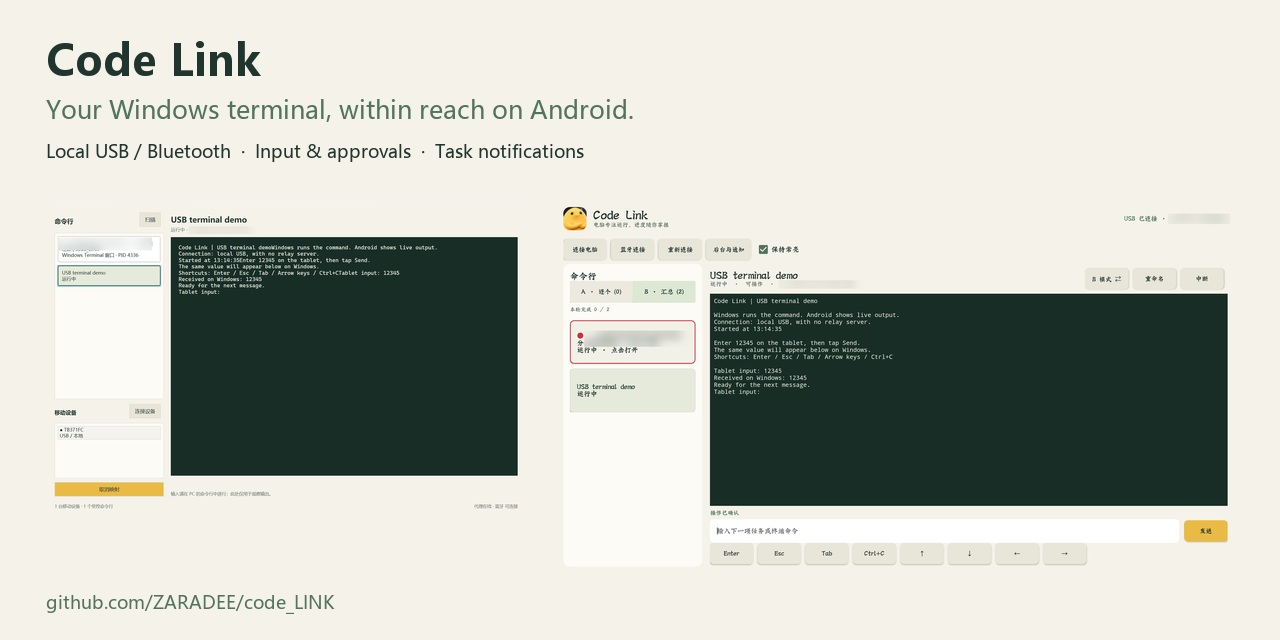
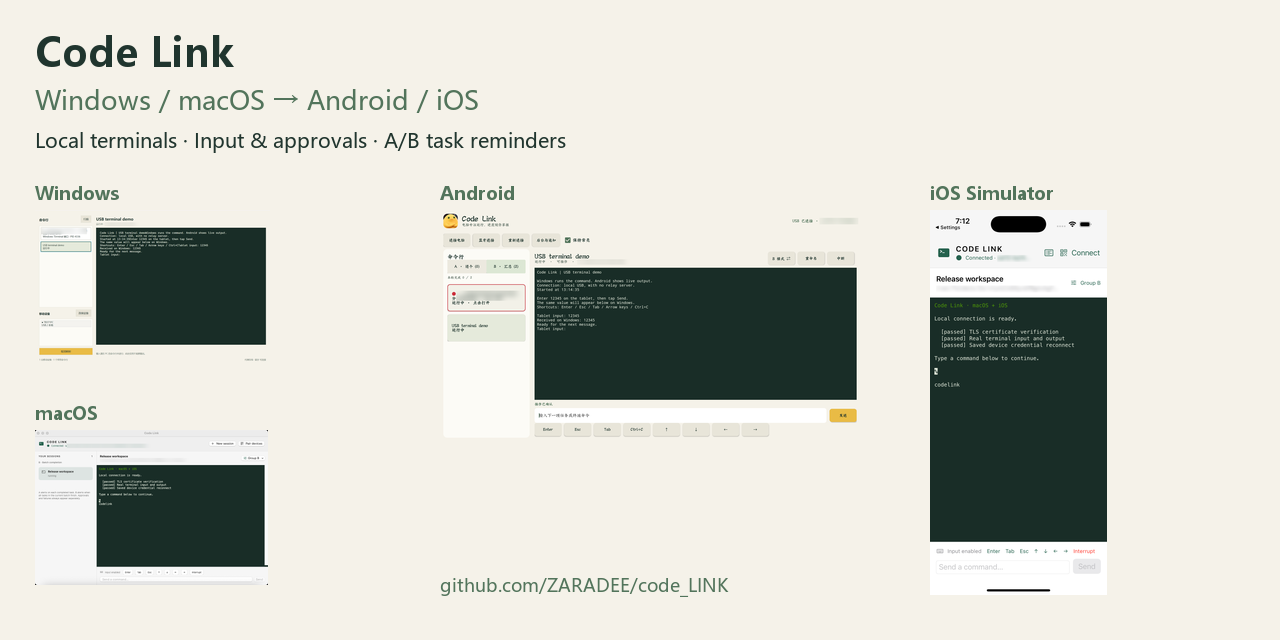
Verify Apple bundle versions and document real Mac and iOS captures

diff --git a/site/en.html b/site/en.html
@@ -64,7 +64,7 @@
       <p class="intro">Follow your Windows or Mac terminal from Android, iPhone or iPad. Read output, send input, respond to approvals, and get a notification when the work is ready.</p>
       <div class="actions"><a class="button" href="https://github.com/ZARADEE/code_LINK/releases/latest">Download v1.3.0 <span aria-hidden="true">↗</span></a><a class="text-link" href="https://github.com/ZARADEE/code_LINK/blob/main/README.en.md">Read the guide →</a></div>
       <p class="meta">USB / Bluetooth / LAN · No relay server · Native desktop and mobile apps · MIT code license</p>
-      <figure><img src="assets/overview.png" width="1800" height="820" alt="Actual Windows and Android interfaces showing the same PowerShell output"><figcaption>Real application screenshots. Local paths and computer names are blurred. The app currently uses a Chinese interface.</figcaption></figure>
+      <figure><img src="assets/overview.png" width="1800" height="820" alt="Actual Windows and Android interfaces showing the same PowerShell output"><figcaption>Real application screenshots. Local paths and computer names are blurred. Windows and Android use Chinese; Apple clients use English.</figcaption></figure>
     </section>
     <section class="wrap features" aria-label="Features">
       <article><span class="number">01 / OUTPUT AND INPUT</span><h2>Your terminal can stay minimized</h2><p>Choose an existing Windows terminal on the tablet. Send text, Enter, arrow keys or Ctrl+C back to that terminal.</p></article>
@@ -84,6 +84,8 @@
       </ol>
     </section>
     <section class="wrap details" aria-labelledby="downloads">
+      <h2 id="apple">Your Mac terminal on iPhone and iPad</h2>
+      <figure><a href="assets/apple-overview.png"><img src="assets/apple-overview.png" width="1800" height="1030" alt="Native macOS application and iPhone and iPad simulators connected to a real terminal over local TLS" loading="lazy"></a><figcaption>Actual running applications. iPhone and iPad are simulators; device installation needs personal signing. iOS pauses its connection in the background.</figcaption></figure>
       <h2 id="downloads">Download the current version</h2>
       <p>Apple clients use LAN connections. Read the <a href="https://github.com/ZARADEE/code_LINK/blob/main/docs/APPLE.md">macOS / iOS guide</a>; verify Apple packages with <a href="https://github.com/ZARADEE/code_LINK/releases/download/v1.3.0/APPLE-SHA256SUMS.txt">APPLE-SHA256SUMS.txt</a>.</p>
       <div class="table-scroll"><table><caption>Code Link v1.3.0 official downloads</caption><thead><tr><th scope="col">Platform</th><th scope="col">Download</th><th scope="col">Requirements</th></tr></thead><tbody>

diff --git a/site/index.html b/site/index.html
@@ -85,6 +85,8 @@
       </ol>
     </section>
     <section class="wrap details" aria-labelledby="downloads">
+      <h2 id="apple">Mac 终端，连接 iPhone 与 iPad</h2>
+      <figure><a href="assets/apple-overview.png"><img src="assets/apple-overview.png" width="1800" height="1030" alt="原生 macOS 应用与 iPhone、iPad 模拟器通过本地 TLS 同步真实终端输出" loading="lazy"></a><figcaption>三端实际运行截图。iPhone / iPad 为模拟器；真机需自行签名，iOS 后台会暂停连接。</figcaption></figure>
       <h2 id="downloads">下载当前版本</h2>
       <p>Apple 端通过同一局域网连接，参见 <a href="https://github.com/ZARADEE/code_LINK/blob/main/docs/APPLE.md">macOS / iOS 安装指南</a>。Apple 包另附 <a href="https://github.com/ZARADEE/code_LINK/releases/download/v1.3.0/APPLE-SHA256SUMS.txt">校验文件</a>。</p>
       <div class="table-scroll"><table><caption>Code Link v1.3.0 官方下载</caption><thead><tr><th scope="col">平台</th><th scope="col">下载</th><th scope="col">安装要求</th></tr></thead><tbody>

diff --git a/scripts/verify-apple-packages.py b/scripts/verify-apple-packages.py
@@ -1,0 +1,35 @@
+"""Verify release archive metadata, resources and checksums before publishing."""
+from pathlib import Path
+import hashlib,json,plistlib,zipfile,sys
+
+folder=Path(sys.argv[1])
+for line in (folder/'APPLE-SHA256SUMS.txt').read_text().splitlines():
+    digest,name=line.split('  ',1)
+    path=folder/name
+    with path.open('rb') as stream: assert hashlib.file_digest(stream,'sha256').hexdigest()==digest,name
+    with zipfile.ZipFile(path) as archive:
+        names=archive.namelist()
+        assert not any(n.endswith(('host.json','host.pfx','sessions.json','operations.jsonl','.keystore','.p12')) for n in names),name
+        if 'macOS-' in name:
+            info=plistlib.loads(archive.read('CodeLink.app/Contents/Info.plist'))
+            assert info['CFBundleShortVersionString']=='1.3.0',info
+            for required in ['Contents/MacOS/CodeLink','Contents/Resources/backend/CodeLink.Host','Contents/Resources/backend/codelink-pty','Contents/Resources/Terminal/terminal.html','Contents/Resources/Terminal/xterm.js']:
+                assert 'CodeLink.app/'+required in names,(name,required)
+            executable=archive.getinfo('CodeLink.app/Contents/Resources/backend/CodeLink.Host')
+            assert (executable.external_attr >> 16) & 0o111,'Mac host executable mode missing'
+        elif 'Simulator' in name:
+            info=plistlib.loads(archive.read('CodeLink.app/Info.plist'))
+            assert info['CFBundleShortVersionString']=='1.3.0'
+            assert info['DTPlatformName']=='iphonesimulator',info
+            assert 'CodeLink.app/Terminal/terminal.html' in names
+            assert 'CodeLink.app/_CodeSignature/CodeResources' in names
+        elif 'Source' in name:
+            assert 'CodeLink-Apple/apple/CodeLink.xcodeproj/project.pbxproj' in names
+            assert 'CodeLink-Apple/docs/APPLE.md' in names
+        elif 'unsigned-archive' in name:
+            assert any(n.endswith('/Products/Applications/CodeLink.app/CodeLink') for n in names)
+            app_info=next(n for n in names if n.endswith('/Products/Applications/CodeLink.app/Info.plist'))
+            info=plistlib.loads(archive.read(app_info))
+            assert info['CFBundleShortVersionString']=='1.3.0',info
+            assert info['DTPlatformName']=='iphoneos',info
+    print('Verified',name,path.stat().st_size)

diff --git a/docs/APPLE.md b/docs/APPLE.md
@@ -18,6 +18,8 @@ The Apple clients use the same TLS protocol as Windows and Android. macOS hosts 
 
 Requirements: macOS 14 or newer; iOS / iPadOS 17 or newer. macOS packages are provided for Apple silicon and Intel.
 
+![Mac app connected to iPhone and iPad simulators](assets/apple-overview.png)
+
 ## Downloads and signing
 
 The macOS application is ad-hoc signed, without an Apple Developer ID or notarization. Download it from this repository's release, unzip it, and move CodeLink.app to Applications. If macOS blocks it, use System Settings → Privacy & Security → Open Anyway after checking the release checksum. Do not disable Gatekeeper globally.
@@ -25,6 +27,13 @@ The macOS application is ad-hoc signed, without an Apple Developer ID or notariz
 There is no signed iPhone IPA or TestFlight release. `CodeLink-iOS-Simulator` runs in Xcode's iOS Simulator on a Mac. `CodeLink-iOS-unsigned-archive` is an unsigned device archive for developers; it cannot be installed directly on an iPhone. `CodeLink-Apple-Source` contains an Xcode project for personal signing. Open `apple/CodeLink.xcodeproj`, select CodeLinkiOS, set **Build Settings → Code Signing Allowed** to **Yes**, enable automatic signing, select your own development team and bundle identifier, and run on a connected device. A free Apple Account can be used for personal device testing under Apple's provisioning limits. App Store / TestFlight distribution needs paid Apple Developer Program membership.
 
 ## First connection
+
+To run the simulator download, unzip it, open Xcode's Simulator and start an iPhone or iPad. Install and launch the app with:
+
+```sh
+xcrun simctl install booted /path/to/CodeLink.app
+xcrun simctl launch booted com.codelink.ios
+```
 
 1. Open the Mac app and create a terminal or Codex session. Codex requires a separately installed, authenticated Codex CLI.
 2. Open Pair devices, enable local network connections and check the displayed Mac IP address.

diff --git a/docs/assets/README.md b/docs/assets/README.md
@@ -6,9 +6,15 @@
 | `android.png` | 2026-11-14 联想小新 Pad Pro 12.7 实拍屏幕，USB 已连接；从平板发送 12345，终端回显已收到 |
 | `background-settings.png` | 同日平板的后台与通知设置截图；系统勿扰当时处于开启状态 |
 | `overview.png` | 将上述真实 Windows 与 Android 截图排版，添加说明文字 |
-| `social-preview.png` | 使用上述真实界面制作的网页分享图，尺寸 1280 × 640 |
+| `macos.png` | 2026-11-14 GitHub macOS runner 上运行的原生 Mac 应用，连接实际 PTY 主机 |
+| `ios.png` | 同次构建中的 iPhone 16 Pro 模拟器，已配对并接收真实终端输出 |
+| `ipados.png` | 同次构建中的 iPad 模拟器，已配对并接收同一终端输出 |
+| `apple-overview.png` | 将上述三张 Apple 实际截图排版，标明模拟器来源 |
+| `social-preview.png` | 使用四个平台真实界面制作的网页分享图，尺寸 1280 × 640 |
 | `notifications.png` | 2026-11-13 真机后台验收中的 A/B 通知横幅，依据 [验收记录](../../research/pad-background-acceptance.json) |
 | `reminder-modes.png` | A/B 完成提醒规则示意图 |
 | `logo.png` | 由维护者提供的原始素材生成，许可范围见 [素材说明](../../assets/README.md) |
 
 截图仅裁掉系统边栏并模糊本机路径、设备名和私人窗口标题。终端正文与连接状态保留实际画面。原始截图留在本机，公开仓库只保存处理后的版本。
+
+Apple 截图来自 [通过全部运行检查的构建](https://github.com/ZARADEE/code_LINK/actions/runs/43569332131)。终端中的检查说明由演示命令输出，对应此前已完成的 TLS、PTY 输入输出和凭据重连检查。iOS / iPadOS 为模拟器截图，尚无 Apple 真机验收。

diff --git a/README.en.md b/README.en.md
@@ -18,6 +18,10 @@ The desktop app is a lightweight **WPF tray application**. The Android app uses 
 
 Native SwiftUI clients add managed zsh terminals and Codex sessions on macOS, with an iPhone/iPad companion using the same pinned TLS protocol. Download Apple silicon or Intel builds for macOS 14+, including the .NET runtime. The Mac apps are ad-hoc signed and not notarized.
 
+![macOS app and iPhone/iPad simulators connected to a real local terminal](docs/assets/apple-overview.png)
+
+Full-size captures: [macOS](docs/assets/macos.png), [iPhone Simulator](docs/assets/ios.png), [iPad Simulator](docs/assets/ipados.png). These show running applications connected to the native Mac host.
+
 iOS 17+ is provided as a simulator app, an unsigned device archive and an Xcode source project for personal signing. There is no directly installable signed IPA or TestFlight release. iOS connections pause in the background and resume on return. Read the [Apple guide](docs/APPLE.md) for installation and the platform capability matrix. The USB, Bluetooth, background service and external window scanning instructions below apply to Windows + Android.
 
 ## Get started

diff --git a/README.md b/README.md
@@ -43,6 +43,10 @@
 
 ## macOS 与 iOS
 
+![macOS、iPhone 与 iPad 通过真实本地连接同步终端](docs/assets/apple-overview.png)
+
+macOS 应用与 iPhone / iPad 模拟器的实际运行截图。可查看 [Mac](docs/assets/macos.png)、[iPhone](docs/assets/ios.png) 和 [iPad](docs/assets/ipados.png) 原尺寸图片。
+
 新增原生 SwiftUI 客户端。macOS 可以创建 zsh 终端和 Codex 会话，iPhone / iPad 通过同一局域网连接 Mac 或 Windows，查看输出、输入指令、处理审批和 A/B 提醒。Apple 端界面为英文，详见 [Apple 安装与功能说明](docs/APPLE.md)。
 
 macOS 提供 Apple silicon 和 Intel 包，内含 .NET 运行时，尚未进行 Developer ID 签名与公证。iOS 提供模拟器包、未签名真机归档和可自行签名的 Xcode 工程；当前没有可直接安装的签名 IPA 或 TestFlight。iOS 退到后台后会暂停连接，返回时重连。下文 USB、蓝牙、后台常驻与外部窗口扫描步骤适用于 Windows + Android。
